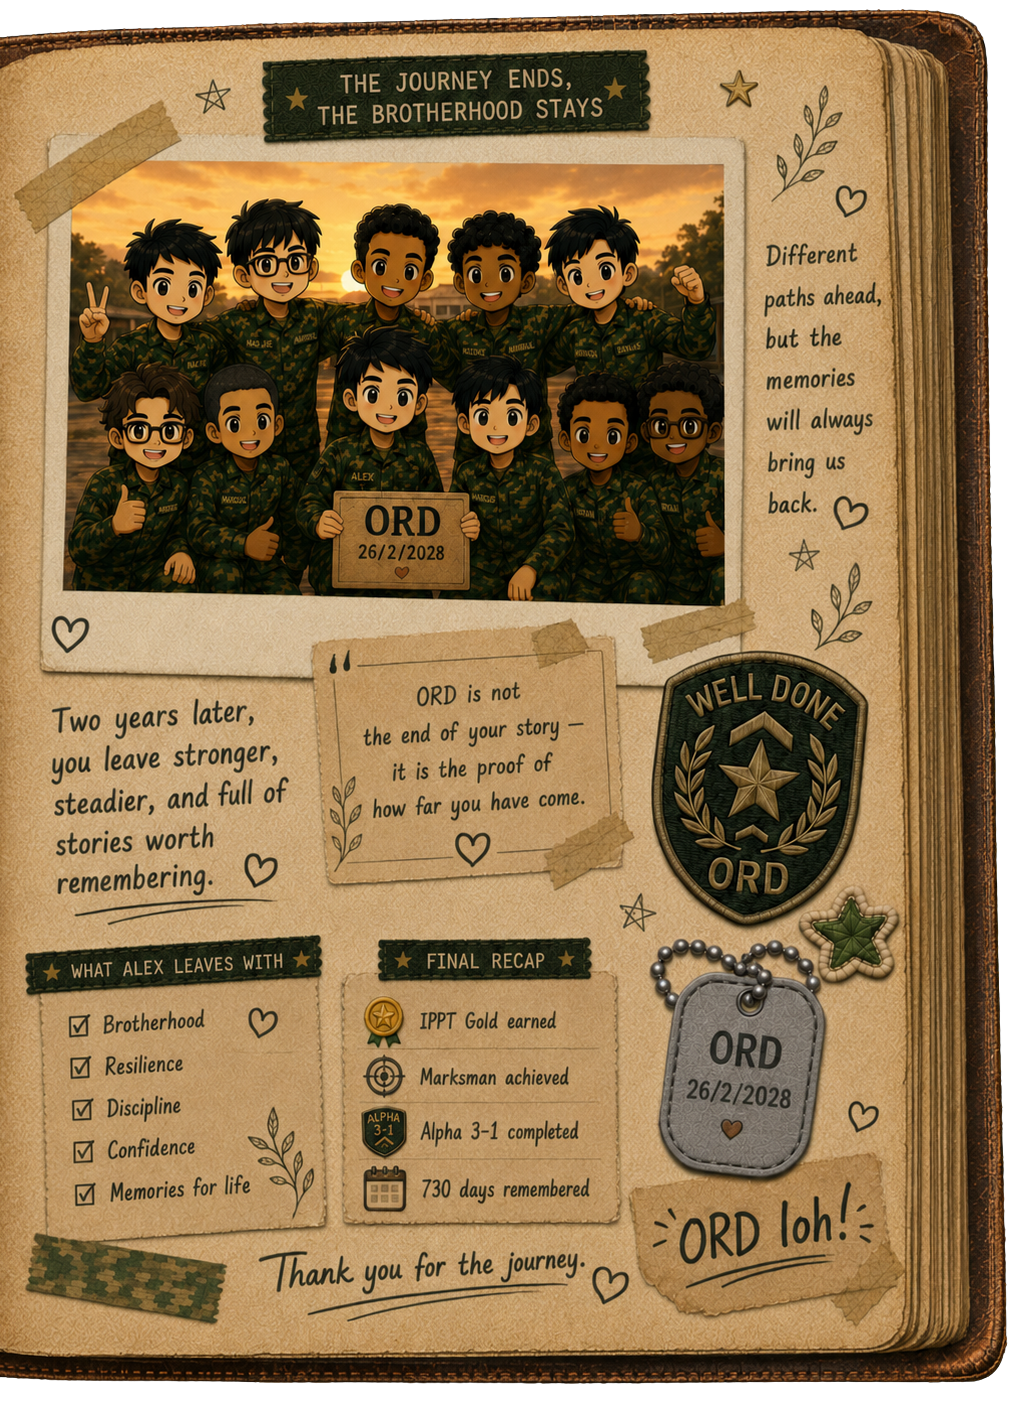
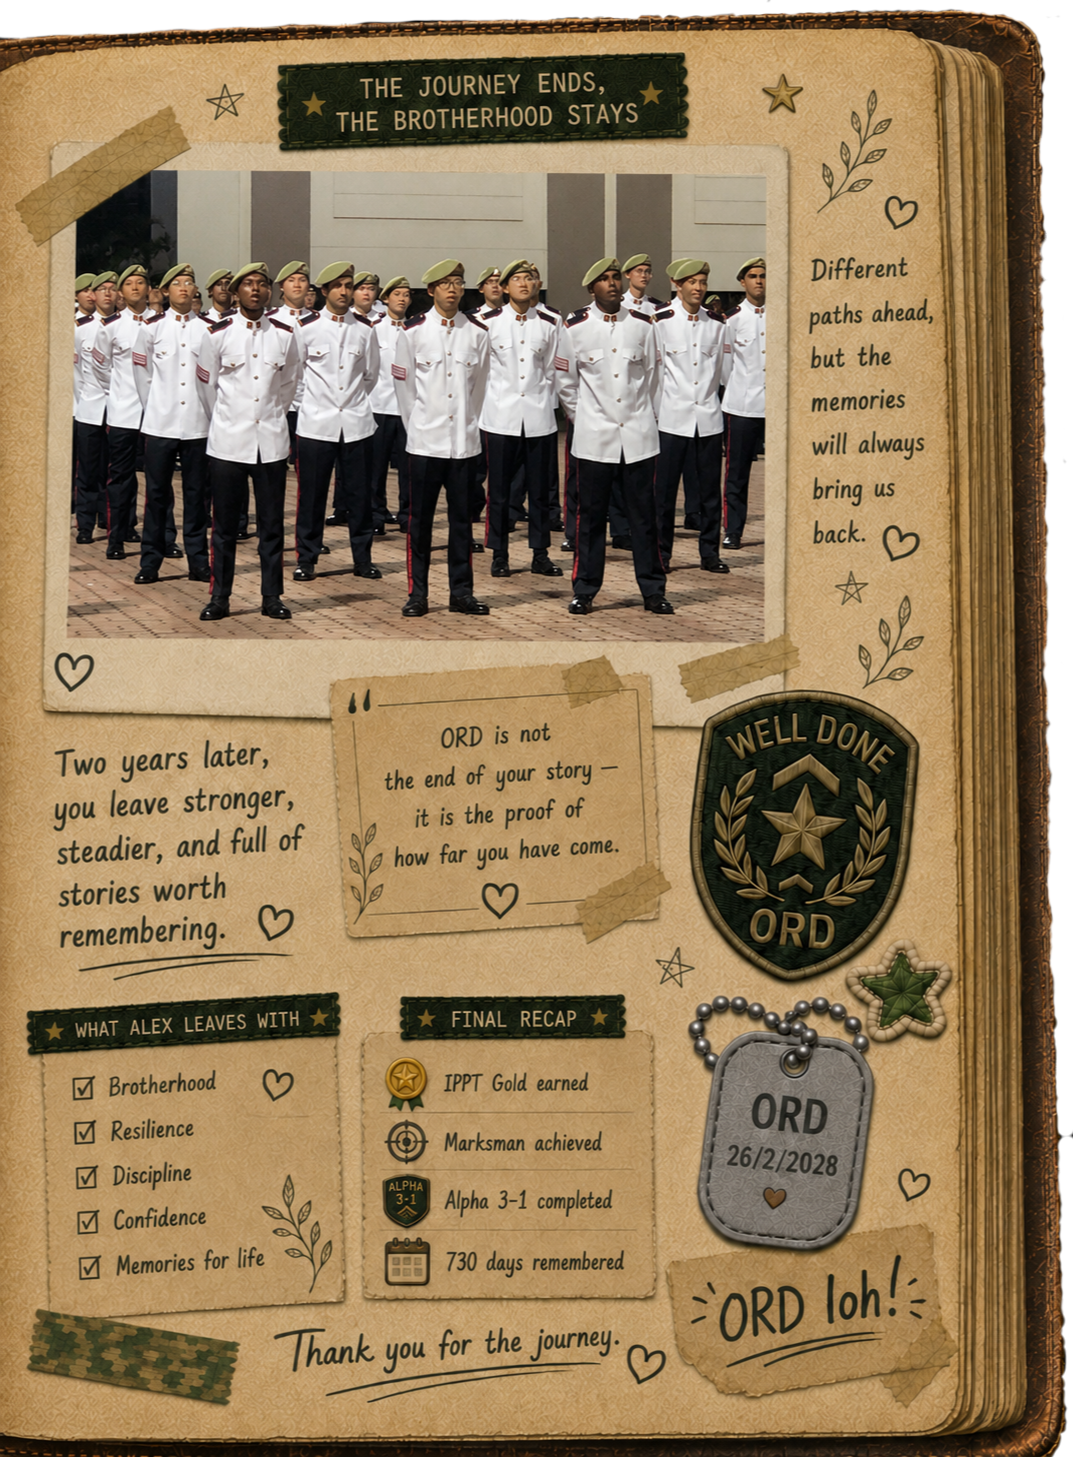
style: add real pictures

diff --git a/frontend/src/pages/JournalPage.jsx b/frontend/src/pages/JournalPage.jsx
@@ -340,7 +340,7 @@ const BmtChapterLeft = forwardRef(function BmtChapterLeft(_props, ref) {
         /* Image aspect (0.800) is wider than the page box, so cover would clip
            the sides. Scaling to ~94% height lets the full width show (only ~1%
            side crop) with a thin top/bottom margin that blends with the page. */
-        style={{ position: "absolute", left: 0, right: 0, top: "2%", width: "100%", height: "95%", objectFit: "cover" }}
+        style={{ position: "absolute", left: 0, right: 0, top: "2%", width: "100%", height: "97%", objectFit: "cover" }}
       />
     </div>
   );
@@ -350,7 +350,7 @@ const BmtChapterLeft = forwardRef(function BmtChapterLeft(_props, ref) {
 const BmtChapterRight = forwardRef(function BmtChapterRight({ userNote, commanderNote }, ref) {
   // Personal message from the section commander, addressed to the soldier.
   const cmdNote = commanderNote
-    || "Alex,\n\n At the start of BMT, you couldn't hold a 1-min plank. Last week you carried Rafiq's load on the last 2km without being asked.\n\nThat's the soldier I'll remember.\n\nProud of you. Now go be great.\n\n— 3SG Lim";
+    || "Alex,\n\nAt the start of BMT, you couldn't hold a 1-min plank. Last week you carried Rafiq's load on the last 2km without being asked.\n\nThat's the soldier I'll remember.\n\nProud of you. Now go be great.\n\n— 3SG Lim";
 
   const myNote = userNote
     || "63 days. Came in alone, leaving with brothers. \n\nCan't believe I made it through. This was crazy...\nbut i guess it's time for round 2...";
@@ -369,13 +369,13 @@ const BmtChapterRight = forwardRef(function BmtChapterRight({ userNote, commande
         alt="BMT Chapter Right"
         /* See BMT left: scaled to ~94% height so the full width shows with
            minimal side crop and a thin blending top/bottom margin. */
-        style={{ position: "absolute", left: 0, right: 0, top: "2%", width: "100%", height: "95%", objectFit: "cover" }}
+        style={{ position: "absolute", left: 0, right: 0, top: "2%", width: "100%", height: "97%", objectFit: "cover" }}
       />
 
       {/* COMMANDER'S NOTES lined slot (bottom-left); lines ~ x:7%-36%, y:74%-88% */}
       <div style={{
         position: "absolute",
-        top: "72.6%",
+        top: "74.5%",
         left: "9%",
         transform: "rotate(-5deg)",
         width: "27%",
@@ -391,7 +391,7 @@ const BmtChapterRight = forwardRef(function BmtChapterRight({ userNote, commande
       {/* MY NOTES lined slot (bottom-right); lines ~ x:64%-92%, y:74%-88% */}
       <div style={{
         position: "absolute",
-        top: "73.2%",
+        top: "75%",
         left: "64.5%",
         width: "27%",
         transform: "rotate(5.5deg)",
@@ -417,7 +417,7 @@ const FieldCampLeft = forwardRef(function FieldCampLeft({ userNote }, ref) {
       <img
         src="/assets/journal/fieldcamp_left.png"
         alt="Field Camp Left"
-        style={{ position: "absolute", inset: 0, width: "100%", height: "99%", objectFit: "cover" }}
+        style={{ position: "absolute", inset: 0, width: "100%", height: "100%", objectFit: "cover" }}
       />
       {/* MY REFLECTION lined slot (right, mid-lower); lines ~ x:63%-93%, y:64%-88% */}
       <div style={{
@@ -492,9 +492,10 @@ const PopLeft = forwardRef(function PopLeft(_props, ref) {
         src="/assets/journal/pop_left.png"
         alt="POP Left"
         /* Image has a book-spine/binding crease baked into its right edge.
-           Render ~3% wider than the page and anchor top-left so the page's
-           overflow:hidden clips that crease off the right side. */
-        style={{ position: "absolute", top: 0, left: 0, width: "103%", height: "99%", objectFit: "cover", objectPosition: "center" }}
+           objectPosition:"left" anchors the image to the LEFT edge so the
+           horizontal crop comes entirely off the RIGHT (removing the crease)
+           and the left book border stays fully visible / uncropped. */
+        style={{ position: "absolute", top: 0, left: 0, width: "100%", height: "99%", objectFit: "cover", objectPosition: "left" }}
       />
     </div>
   );
@@ -519,8 +520,8 @@ const PopRight = forwardRef(function PopRight({ commanderNote }, ref) {
       <div style={{
         position: "absolute",
         top: "53%",
-        left: "54.5%",
-        transform: "rotate(5.5deg)",
+        left: "57.5%",
+        transform: "rotate(6deg)",
         width: "32%",
         height: "30%",
         overflow: "hidden",
@@ -632,7 +633,7 @@ const OrdLeft = forwardRef(function OrdLeft(_props, ref) {
         alt="ORD Left"
         /* cover crops the taller image top+bottom; objectPosition:top anchors
            the crop to the bottom so the top banner/border stays visible. */
-        style={{ position: "absolute", left: 0, right: 0, top: "2%", width: "100%", height: "98%", objectFit: "cover", objectPosition: "top" }}
+        style={{ position: "absolute", left: 0, right: 0, top: "1%", width: "100%", height: "98%", objectFit: "cover", objectPosition: "top" }}
       />
     </div>
   );
@@ -645,7 +646,7 @@ const OrdRight = forwardRef(function OrdRight(_props, ref) {
       <img
         src="/assets/journal/ord_right.png"
         alt="ORD Right"
-        style={{ position: "absolute", left: 0, right: 0, top: "1%", width: "100%", height: "98%", objectFit: "cover", objectPosition: "top" }}
+        style={{ position: "absolute", left: 1, right: 0, top: "0%", width: "100%", height: "100%", objectFit: "cover", objectPosition: "top" }}
       />
     </div>
   );
@@ -658,7 +659,7 @@ const LastPage = forwardRef(function LastPage(_props, ref) {
       <img
         src="/assets/journal/lastpage.png"
         alt="Last Page"
-        style={{ position: "absolute", left: 0, right: 0, top: "1%", width: "100%", height: "98%", objectFit: "cover", objectPosition: "top" }}
+        style={{ position: "absolute", left: 0, right: 0, top: "1%", width: "100%", height: "99%", objectFit: "cover", objectPosition: "top" }}
       />
     </div>
   );
